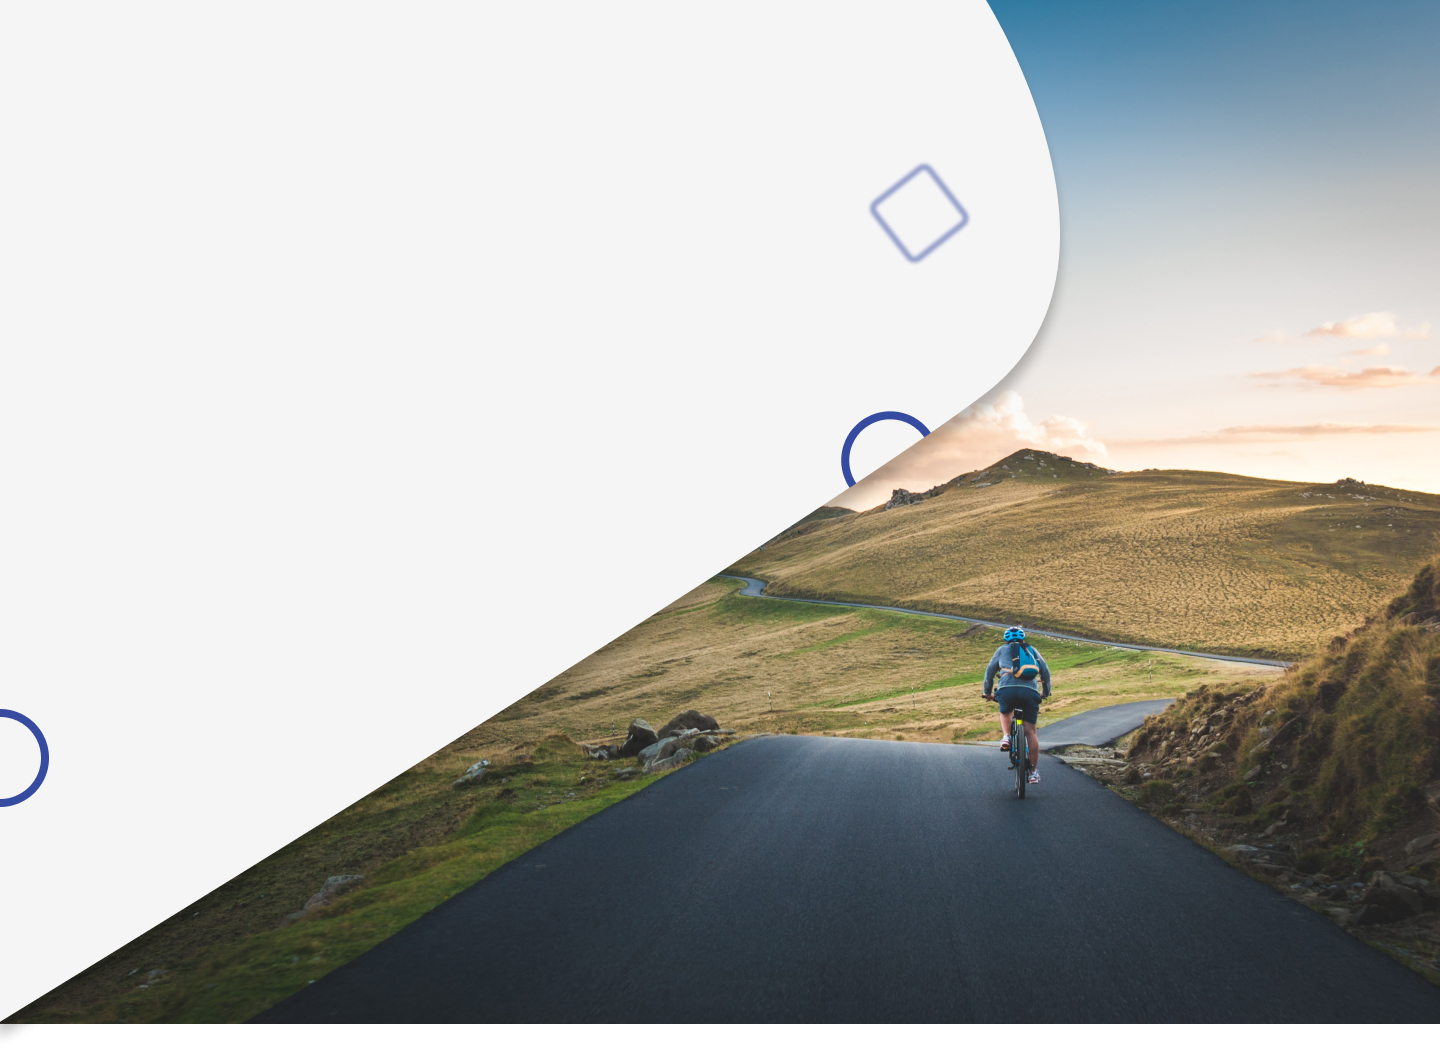
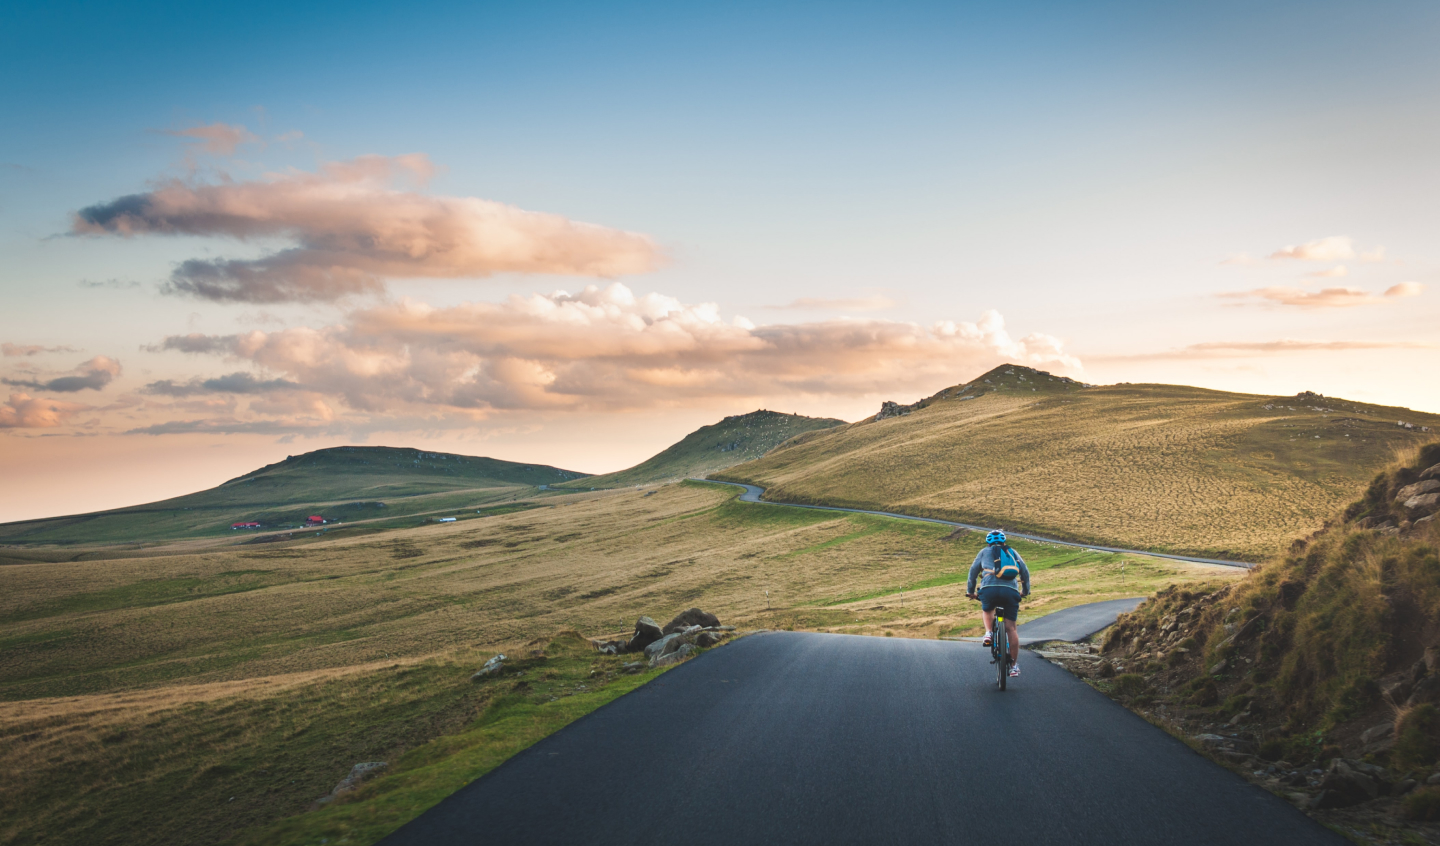
update pada homepage

diff --git a/src/views/homeView.vue b/src/views/homeView.vue
@@ -1,0 +1,158 @@
+<template>
+    <div class="heros">
+        <div class="hero"></div>
+        <div class="container">
+            <h1>{{head[0]}},<br>{{head[1]}}.</h1>
+            <p class="pt-3">{{content}}</p>
+            <div class="row hero1">
+                <div class="col-3 col-md-4 w-50">
+                    <a class="btn" href="#">Contact Us</a>
+                </div>
+                <div class="col-2 col-md-2">
+                    <a href=""><img :src="social"></a>
+                </div>
+                <div class="col-3 col-md-4">
+                    <a  href=""><img :src="social1"></a>
+                </div>  
+            </div>   
+        </div>
+    </div>
+
+<!-- Reward Section -->
+    <secReward :ratings="reward"/>
+
+</template>
+<script>
+import secReward from '../home-section/secReward.vue'
+export default {
+    components : {
+        secReward,
+    },
+    data(){
+        return{
+            head : ['Hello Visitors', 'Welcome to Sans Trip'],
+            content : 'Sans trip memberikan info mengenai trip yang ada di Batam,mulai dari makanan yang khas dan juga destinasi tempat menarik yang ada di Batam.',
+            social : 'https://img.icons8.com/material-outlined/30/364BA0/instagram-new--v1.png',
+            social1 : 'https://img.icons8.com/material-outlined/30/364BA0/whatsapp--v1.png',
+            reward : [
+                {
+                    title : 'Visitors',
+                    desc : 'Lebih dari 16.000 orang mengunjungi website kami.',
+                    image : 'https://img.icons8.com/ios/45/364BA0/visit.png'
+                },
+                {
+                    title : 'People Trust',
+                    desc : 'Lebih dari 2000 orang mempercayai sebagai website trip terbaik.',
+                    image : 'https://img.icons8.com/external-line-lima-studio/50/364BA0/external-trust-motivation-line-lima-studio.png'
+                },
+                {
+                    title : 'Rating Website',
+                    desc : 'Website kami sudah mendapat rating diatas 4,5.',
+                    image : 'https://img.icons8.com/external-flatart-icons-outline-flatarticons/50/364BA0/external-reward-shopping-and-ecommerce-flatart-icons-outline-flatarticons.png'
+                },
+
+            ]
+        }
+    }
+}
+</script>
+<style scoped>
+    .heros{
+        background: url('../assets/img-home/bg-hero.jpg');
+        width: 100%;
+        height: 100vh;
+        background-size: cover;
+        background-position: center;
+    }
+    .hero{
+        background: rgba(255, 255, 255, 0.25);
+        height: 100%;
+        width: 50%;
+        backdrop-filter: blur(5px);
+        position: relative;
+        z-index: 1;
+    }
+    .heros h1{
+        position: relative;
+        z-index: 1;
+        font-weight: 700;
+    }
+    .heros p{
+        position: relative;
+        z-index: 1;
+        color: #323131;
+    }
+    .hero1{
+        position: relative;
+        z-index: 1;
+    }
+    .hero1 a{
+        text-decoration: none;
+    }
+    .btn{
+        background-color: #364BA0;
+        padding: 6px 12px;
+        text-decoration: none;
+        color: #ffff;
+        border-radius: 5px;
+        border: none;
+    }
+
+    /* Large Desktop */
+    @media only screen and (min-width: 1025px){
+        .hero{
+          width: 50%;
+        }
+        .heros h1{
+            font-size: 2.5rem;
+            margin-top: -450px;
+        }
+        .heros p{
+            width: 40%;
+        }
+         .hero1{
+            width: 280px;
+        }
+        .hero1 a{
+            font-size: .9rem;
+        }
+    }
+    /* Tablet and Desktop */
+    @media only screen and (max-width: 1024px){
+        .hero{
+            width: 100%;
+        }
+        .heros h1{
+            font-size: 2rem;
+            margin-top: -450px;
+        }
+        .heros p{
+            width: 55%;
+        }
+         .hero1{
+            width: 280px;
+        }
+        .hero1 a{
+            font-size: .9rem;
+        }
+    }
+    /* Handphone */
+    @media only screen and (max-width: 767px){
+        .hero{
+            width: 100%;
+        }
+        .heros h1{
+            font-size: 2rem;
+            margin-top: -450px;
+        }
+        .heros p{
+            width: 100%;
+        }
+        .hero1{
+            width: 280px;
+        }
+        .hero1 a{
+            font-size: .9rem;
+        }
+    }
+</style>

diff --git a/src/components/appNav.vue b/src/components/appNav.vue
@@ -1,0 +1,73 @@
+<template>
+    <div>
+        <nav class="navbar navbar-expand-lg bg-light shadow-lg">
+        <div class="container-fluid nav">
+            <a class="navbar-brand" href="#">
+                <img :src="logo" alt="">
+            </a>
+            <button class="navbar-toggler" type="button" data-bs-toggle="collapse" data-bs-target="#navbarNavAltMarkup" aria-controls="navbarNavAltMarkup" aria-expanded="false" aria-label="Toggle navigation">
+            <span class="navbar-toggler-icon"></span>
+            </button>
+            <div class="collapse navbar-collapse" id="navbarNavAltMarkup">
+            <div class="navbar-nav ms-5">
+                <router-link to="/" class="nav-link">Home</router-link>
+                <router-link to="/about" class="nav-link">About Us</router-link>
+                <router-link to="/food" class="nav-link">Makanan</router-link>
+                <router-link to="/trip" class="nav-link">Destinasi</router-link>  
+            </div>
+            </div>
+        </div>
+        </nav>
+    </div>
+</template>
+<script>
+export default {
+    data(){
+        return {
+            logo : require('../assets/logo1.png')
+        }
+    }
+}
+</script>
+<style scoped>
+    .nav-link{
+        font-weight: 500;
+    }
+    .nav-link:hover{
+        color: #364BA0 !important;
+        font-weight: 500;
+    }
+    /* Large Desktop */
+    @media only screen and (min-width: 1025px){
+        .nav-link{
+            margin-left: 20px;
+        }
+        .nav{
+            margin-left: 100px;
+        }
+        .navbar-brand{
+            margin-left: unset;
+        }
+    }
+    /* Tablet and Desktop */
+    @media only screen and (max-width: 1024px){
+        .navbar-brand{
+            margin-left: 50px;
+        }
+        .nav-link{
+            margin-left: 20px;
+        }
+    }
+    /* Handphone */
+    @media only screen and (max-width: 767px){
+        .nav-link{
+            margin-left: unset;
+        }
+        .navbar-brand img{
+            width: 150px;
+        }
+        .navbar-brand{
+            margin-left: 10px;
+        }
+    }
+</style>

diff --git a/src/home-section/secReward.vue b/src/home-section/secReward.vue
@@ -1,0 +1,59 @@
+<template>
+    <div class="rewards">
+        <div class="container">
+            <div class="row reward w-60">
+                <div v-for="rating in ratings" :key="rating" class="col-12 col-md-4 reward1">
+                    <img :src="rating.image">
+                    <h5 class="pt-3">{{rating.title}}</h5>
+                    <p>{{rating.desc}}</p>
+                </div>
+            </div>
+        </div>
+    </div>
+</template>
+<script>
+export default {
+    props :{
+        ratings:Object
+    }
+}
+</script>
+<style scoped>
+    .rewards{
+        margin-top: 200px;
+    }
+    .reward{
+        text-align: center;
+    }
+
+    /* Large Desktop */
+    @media only screen and (min-width: 1025px){
+        .reward1{
+            margin: auto;
+        }
+        .reward p{
+            width: 250px;
+            margin: auto;
+        }
+    }
+    /* Tablet and Desktop */
+    @media only screen and (max-width: 1024px){
+        .reward1{
+            margin: auto;
+        }
+        .reward p{
+            width: 80%;
+            margin: auto;
+        }
+    }
+    /* Handphone */
+    @media only screen and (max-width: 767px){
+        .reward1{
+            margin: 20px auto;
+        }
+        .reward p{
+            width: 300px;
+            margin: auto;
+        }
+    }
+</style>

diff --git a/public/index.html b/public/index.html
@@ -3,11 +3,12 @@
   <head>
     <meta charset="utf-8">
     <meta http-equiv="X-UA-Compatible" content="IE=edge">
-    <meta name="viewport" content="width=device-width,initial-scale=1.0">
-    <link rel="icon" href="<%= BASE_URL %>favicon.ico">
+    <meta name="viewport" content="initial-scale=1, maximum-scale=1, user-scalable=no">
+    <link rel="icon" href="<%= BASE_URL %>favicon.svg">
+    <link href="https://fonts.googleapis.com/css2?family=Poppins:wght@400;500;600;700&display=swap" rel="stylesheet">
     <title><%= process.env.VUE_APP_TITLE %></title>
   </head>
-  <body>
+  <body style="font-family: 'Poppins', sans-serif;overflow-x: hidden;">
     <noscript>
       <strong>We're sorry but <%= process.env.VUE_APP_TITLE %> doesn't work properly without JavaScript enabled. Please enable it to continue.</strong>
     </noscript>

diff --git a/src/router/index.js b/src/router/index.js
@@ -1,8 +1,31 @@
 import { createRouter, createWebHistory } from 'vue-router'
 
+import homeView from '../views/homeView'
+import aboutView from '../views/aboutView'
+import foodView from '../views/foodView'
+import tripView from '../views/tripView'
 
 const routes = [
-
+    {
+      path : '/',
+      name : 'Homepage',
+      component : homeView 
+    },
+    {
+      path : '/about',
+      name : 'Tentang Kami',
+      component : aboutView 
+    },
+    {
+      path : '/food',
+      name : 'Makanan Khas Batam',
+      component : foodView 
+    },
+    {
+      path : '/trip',
+      name : 'Destinasi Terbaik Di Batam',
+      component : tripView 
+    }
 ]
 
 const router = createRouter({

diff --git a/src/App.vue b/src/App.vue
@@ -1,26 +1,16 @@
 <template>
-  <img alt="Vue logo" src="./assets/logo.png">
-  <HelloWorld msg="Welcome to Your Vue.js App"/>
+    <app-nav/>
+    <router-view/>
 </template>
 
 <script>
-import HelloWorld from './components/HelloWorld.vue'
+import appNav from './components/appNav.vue'
 
 export default {
   name: 'App',
   components: {
-    HelloWorld
+    appNav,
   }
 }
 </script>
 
-<style>
-#app {
-  font-family: Avenir, Helvetica, Arial, sans-serif;
-  -webkit-font-smoothing: antialiased;
-  -moz-osx-font-smoothing: grayscale;
-  text-align: center;
-  color: #2c3e50;
-  margin-top: 60px;
-}
-</style>

diff --git a/src/views/foodView.vue b/src/views/foodView.vue
@@ -1,0 +1,3 @@
+<template>
+    <p></p>
+</template>

diff --git a/src/views/tripView.vue b/src/views/tripView.vue
@@ -1,0 +1,3 @@
+<template>
+    <p></p>
+</template>
